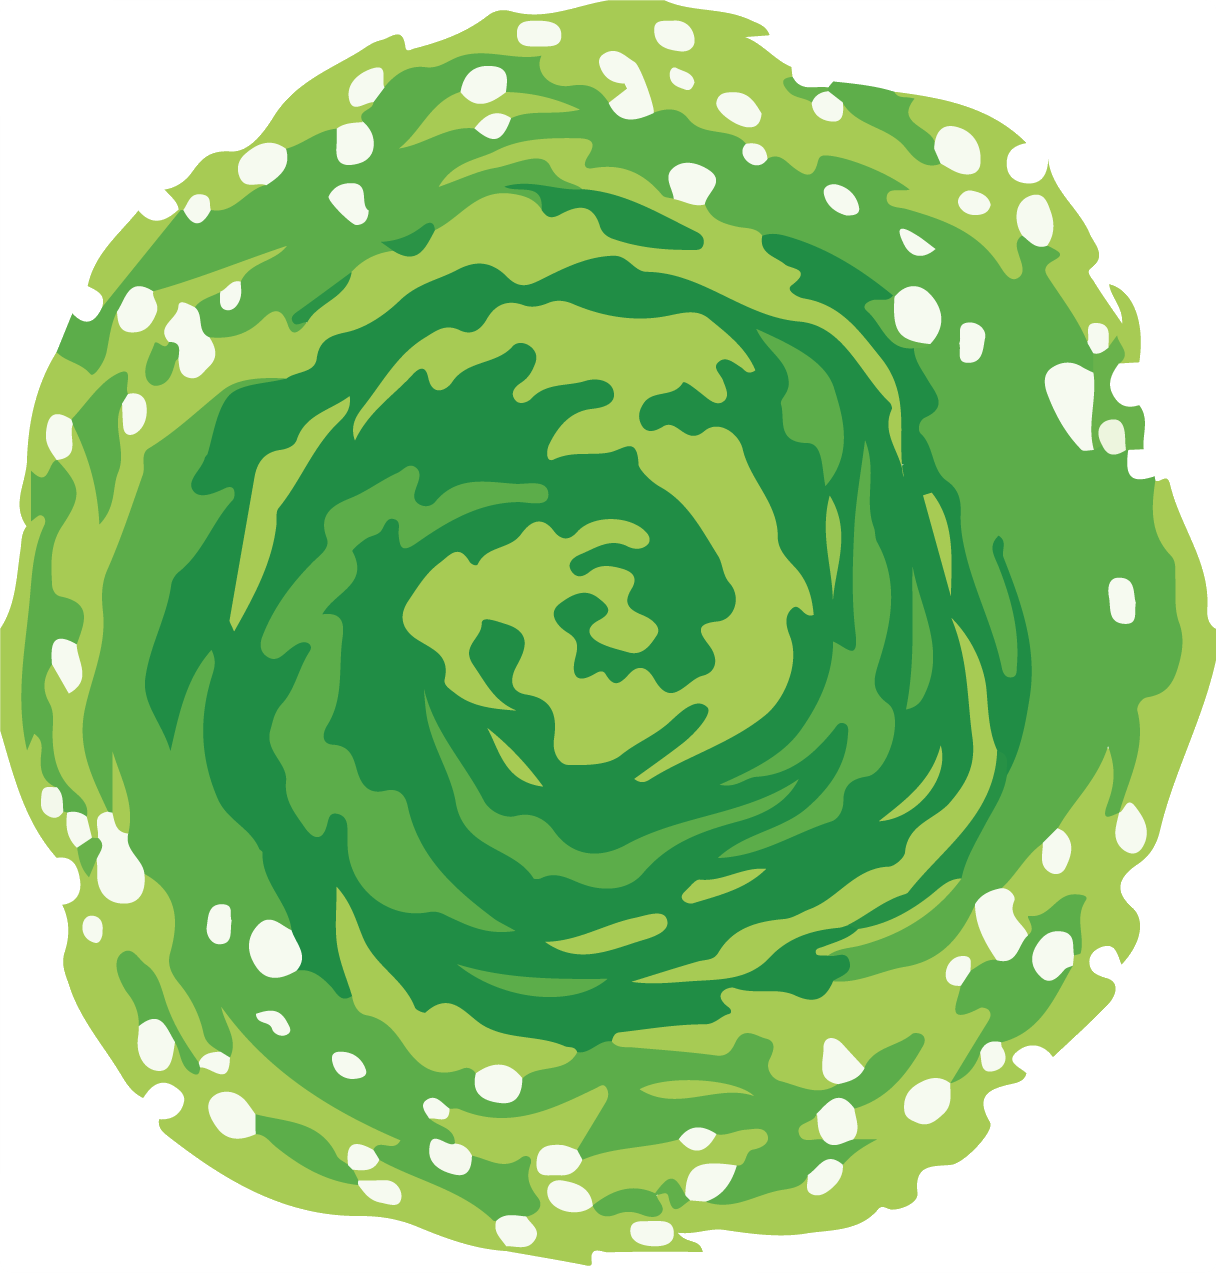
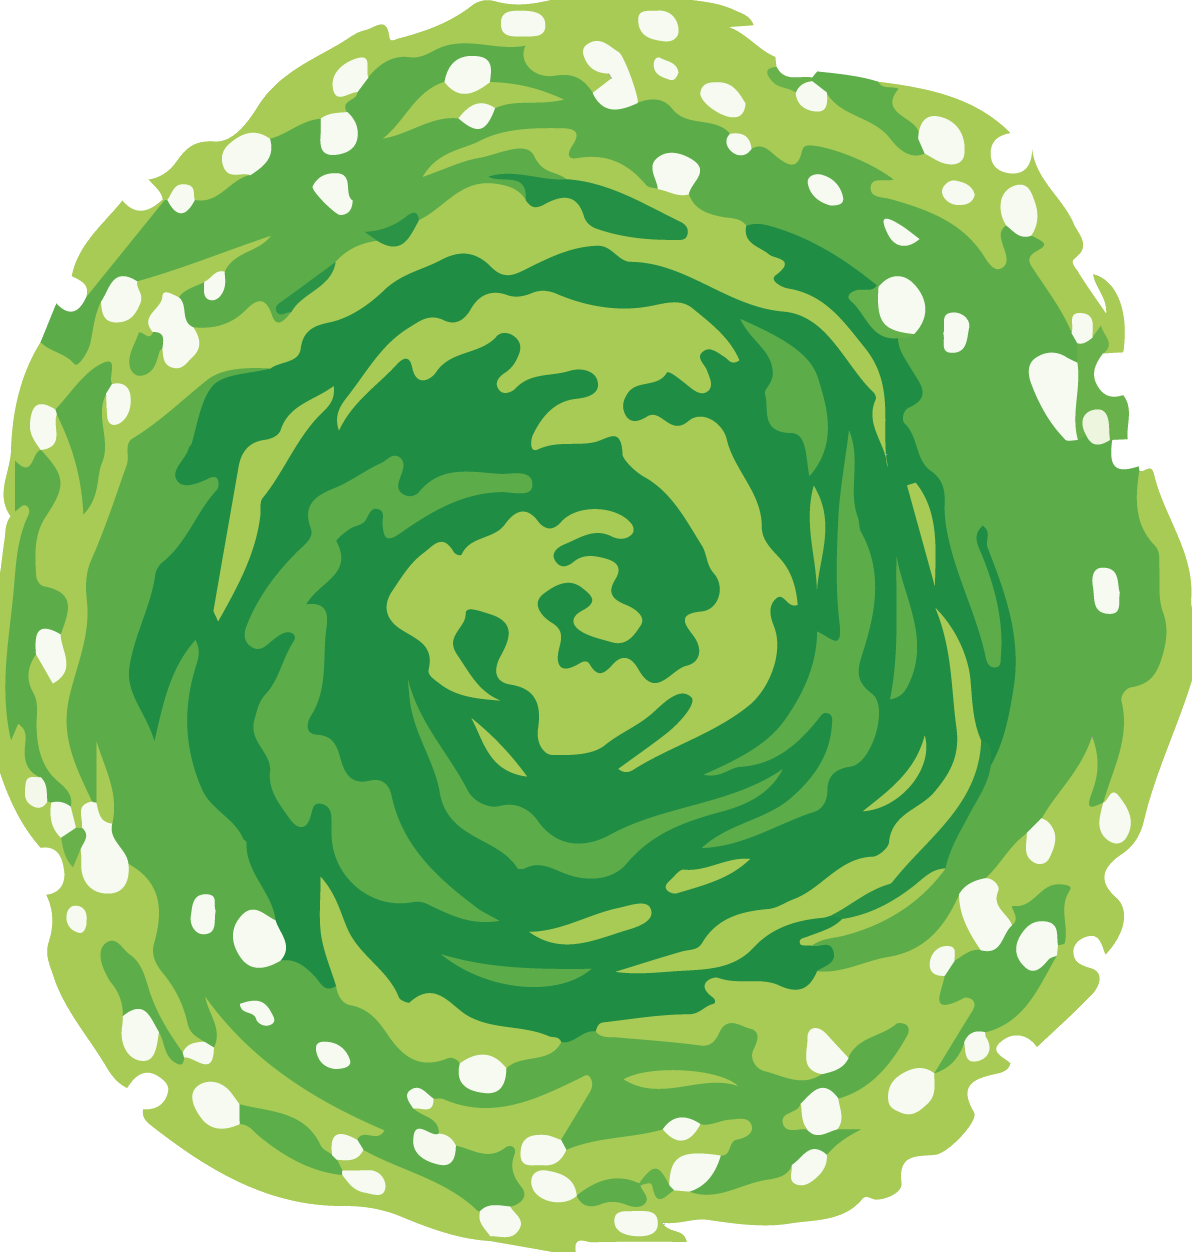
correction of images in design and size

diff --git a/src/components/Pagination.jsx b/src/components/Pagination.jsx
@@ -2,7 +2,7 @@ const Pagination = ({pages, setCurrentPage, currentPage}) => {
   return (
     <ul className=" grid grid-flow-col gap-5 justify-center p-10">
     {
-    pages.map((page) => <button><li className={`${currentPage === page && " text-red-500 h-10 flex items-center justify-center aspect-square bg-green-500/30"}`} onClick={() => setCurrentPage(page)} key={page}>{page}</li></button>
+    pages.map((page) => <button><li className={`${currentPage === page && " text-red-500 h-10 flex items-center justify-center aspect-square bg-green-500/30 border-2 border-green-800"}`} onClick={() => setCurrentPage(page)} key={page}>{page}</li></button>
     
     )}
 

diff --git a/index.html b/index.html
@@ -2,7 +2,7 @@
 <html lang="en">
   <head>
     <meta charset="UTF-8" />
-    <link rel="icon" type="image/svg+xml" href="" />
+    <link rel="icon" type="image/svg+xml" href="/img/circle.png" />
     <meta name="viewport" content="width=device-width, initial-scale=1.0" />
     <title>Rick and Morty</title>
   </head>
